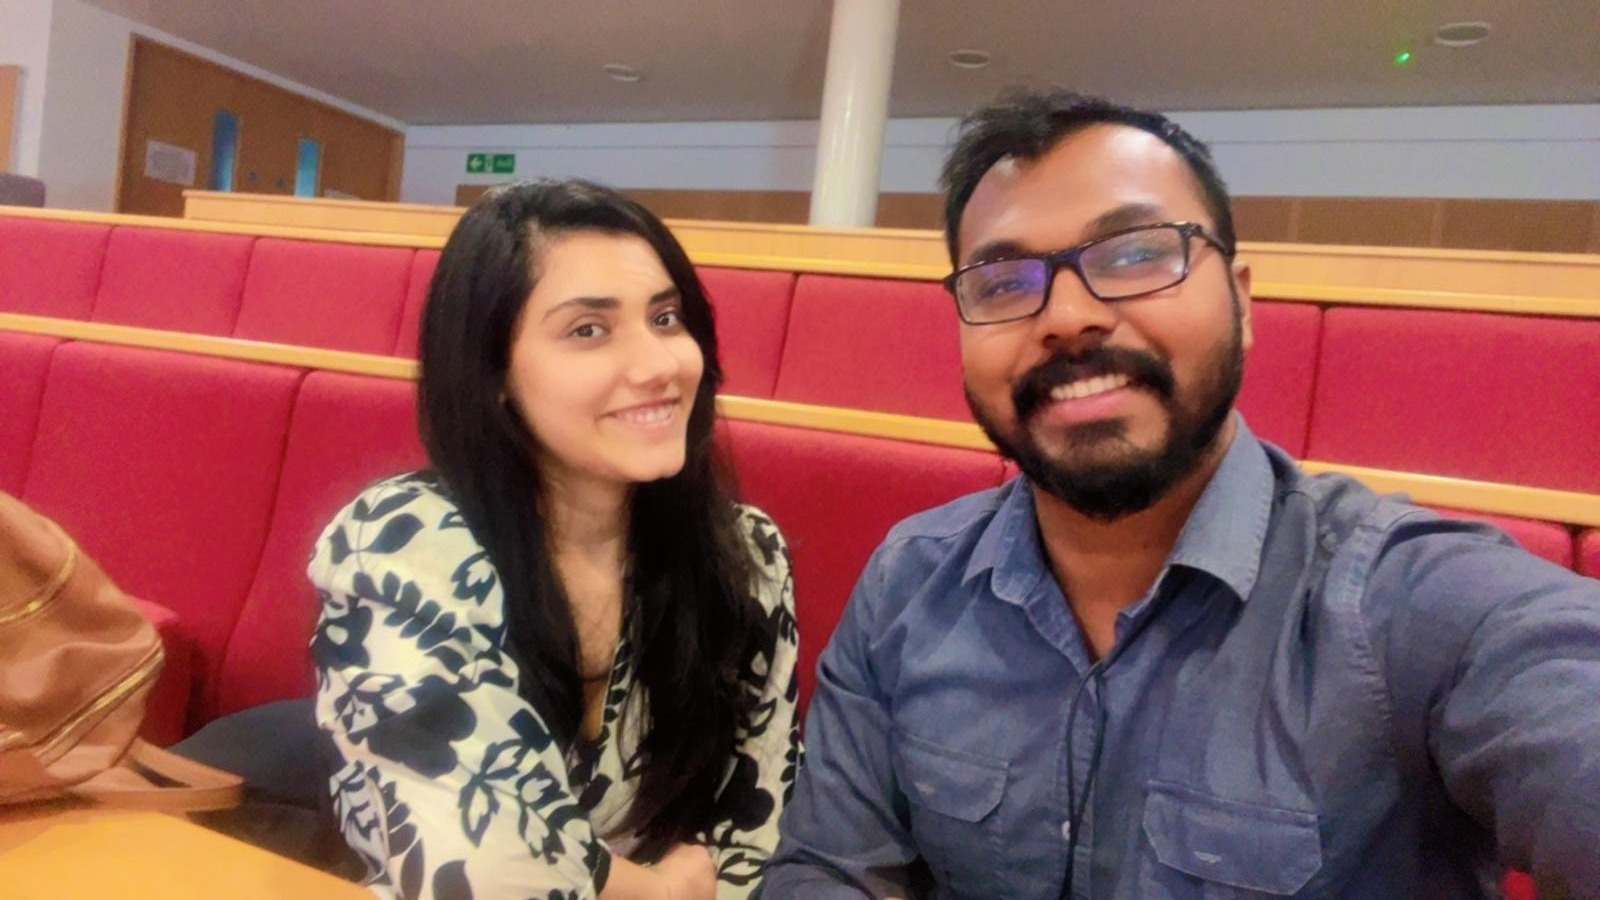
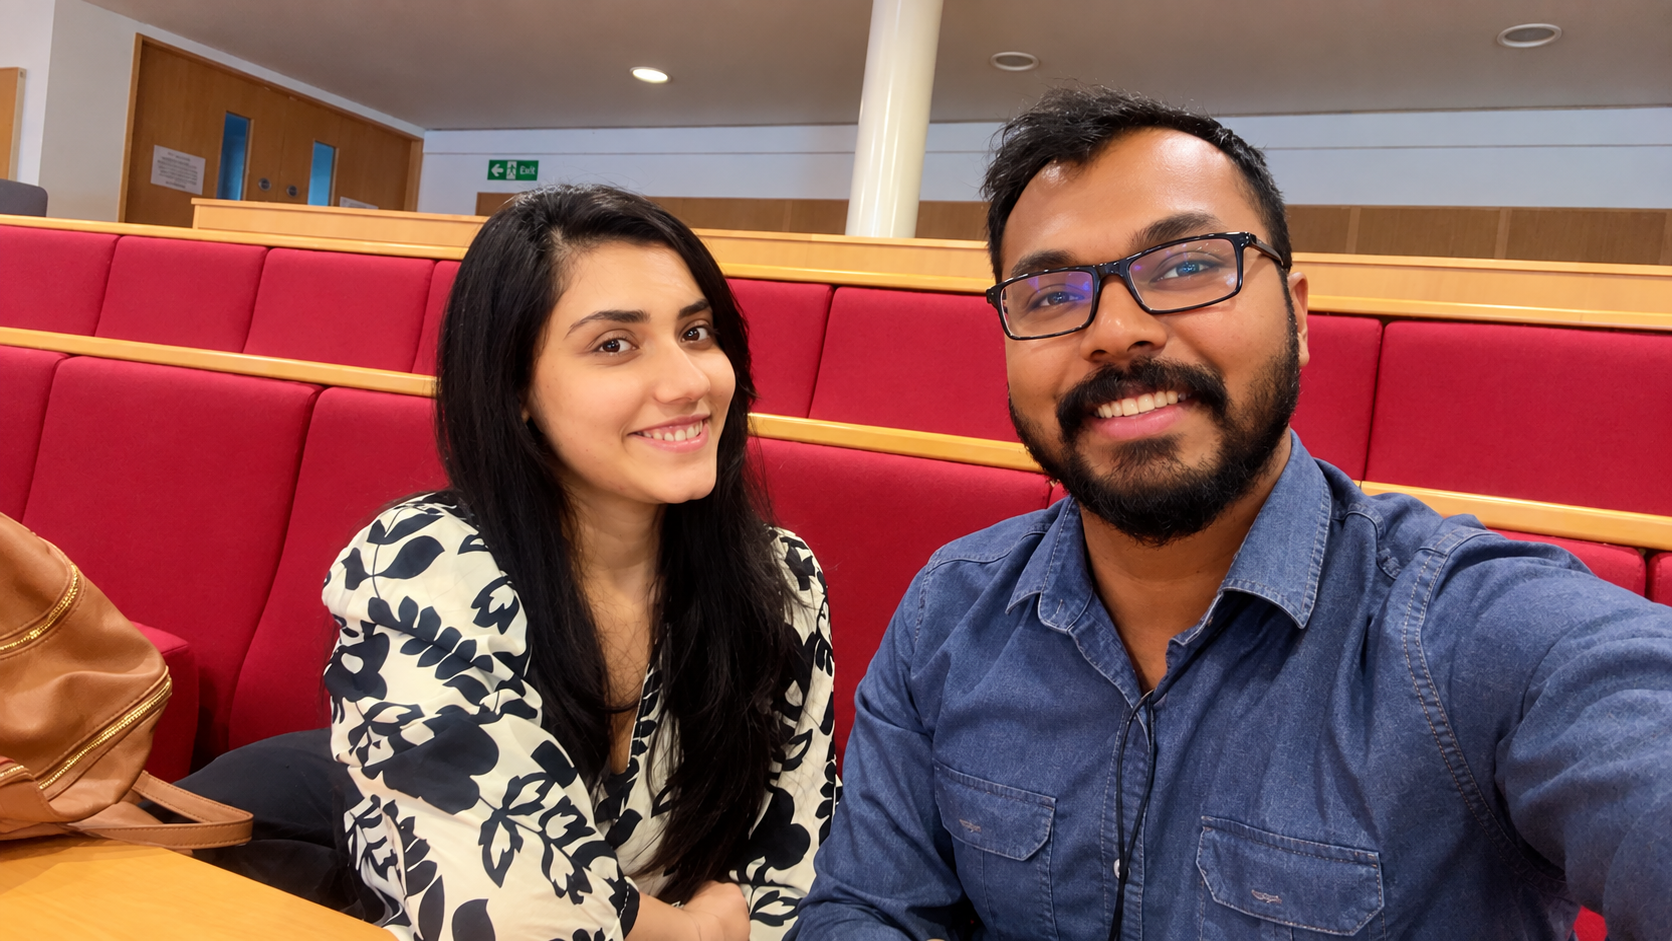
error solved for deplloyment

diff --git a/src/components/story/OurStory.tsx b/src/components/story/OurStory.tsx
@@ -4,7 +4,6 @@ import { wedding } from "@/config/wedding";
 import { WeddingPhoto } from "@/components/media/WeddingPhoto";
 import { FestivalHeading } from "@/components/ui/FestivalHeading";
 import { DepthStage } from "@/components/motion/DepthStage";
-import { TiltCard } from "@/components/motion/TiltCard";
 import { useExperience } from "@/components/providers/ExperienceProvider";
 
 export function OurStory() {
@@ -23,55 +22,51 @@ export function OurStory() {
       </section>
 
       <section className="section-pad pt-2 sm:pt-0">
-        <DepthStage>
-          <FestivalHeading kicker="Our journey" title="A Love in Moments" />
-          <div className="relative mx-auto mt-10 max-w-3xl sm:mt-12">
-            <span className="absolute left-1/2 top-0 hidden h-full w-px -translate-x-1/2 bg-[var(--color-coral)]/35 md:block" />
-            <ol className="space-y-12 sm:space-y-16">
-              {chapters.map((chapter, index) => {
-                const photoLeft = index % 2 === 1;
-                return (
-                  <li key={chapter.id} className="grid items-center gap-5 md:grid-cols-2 md:gap-12">
-                    <div className={photoLeft ? "text-center md:order-1 md:text-left" : "text-center md:order-2 md:text-right"}>
-                      <p className="font-serif text-[clamp(1.35rem,4.5vw,2.35rem)] italic leading-tight text-[var(--color-coral)]">
-                        {chapter.year}
-                      </p>
-                      <h3 className="mt-1 font-serif text-xl text-[var(--color-navy)] sm:mt-2 sm:text-3xl">
-                        {language === "bn" ? chapter.titleBn : chapter.title}
-                      </h3>
-                      <p
-                        className={`mx-auto mt-3 max-w-sm font-serif text-[0.98rem] leading-relaxed text-[var(--color-muted)] sm:text-base ${
-                          photoLeft ? "md:mx-0" : "md:ml-auto md:mr-0"
-                        }`}
-                      >
-                        {language === "bn" ? chapter.textBn : chapter.text}
-                      </p>
-                    </div>
-                    <div
-                      className={`flex justify-center ${
-                        photoLeft ? "md:order-2 md:justify-start" : "md:order-1 md:justify-end"
+        <FestivalHeading kicker="Our journey" title="A Love in Moments" />
+        <div className="relative mx-auto mt-10 max-w-3xl sm:mt-12">
+          <span className="absolute left-1/2 top-0 hidden h-full w-px -translate-x-1/2 bg-[var(--color-coral)]/35 md:block" />
+          <ol className="space-y-12 sm:space-y-16">
+            {chapters.map((chapter, index) => {
+              const photoLeft = index % 2 === 1;
+              return (
+                <li key={chapter.id} className="grid items-center gap-5 md:grid-cols-2 md:gap-12">
+                  <div className={photoLeft ? "text-center md:order-1 md:text-left" : "text-center md:order-2 md:text-right"}>
+                    <p className="font-serif text-[clamp(1.35rem,4.5vw,2.35rem)] italic leading-tight text-[var(--color-coral)]">
+                      {chapter.year}
+                    </p>
+                    <h3 className="mt-1 font-serif text-xl text-[var(--color-navy)] sm:mt-2 sm:text-3xl">
+                      {language === "bn" ? chapter.titleBn : chapter.title}
+                    </h3>
+                    <p
+                      className={`mx-auto mt-3 max-w-sm font-serif text-[0.98rem] leading-relaxed text-[var(--color-muted)] sm:text-base ${
+                        photoLeft ? "md:mx-0" : "md:ml-auto md:mr-0"
                       }`}
                     >
-                      <TiltCard max={8} pressFeedback>
-                        <div className="relative">
-                          <span className="absolute -left-3 top-1/2 hidden h-3 w-3 -translate-y-1/2 rounded-full bg-[var(--color-coral)] md:block" />
-                          <div className="h-40 w-40 overflow-hidden rounded-full sm:h-52 sm:w-52">
-                            <WeddingPhoto
-                              src={chapter.photo}
-                              alt={chapter.photoAlt}
-                              className="h-full w-full"
-                              sizes="(max-width: 767px) 40vw, 208px"
-                            />
-                          </div>
-                        </div>
-                      </TiltCard>
+                      {language === "bn" ? chapter.textBn : chapter.text}
+                    </p>
+                  </div>
+                  <div
+                    className={`flex justify-center ${
+                      photoLeft ? "md:order-2 md:justify-start" : "md:order-1 md:justify-end"
+                    }`}
+                  >
+                    <div className="relative shrink-0">
+                      <span className="absolute -left-3 top-1/2 hidden h-3 w-3 -translate-y-1/2 rounded-full bg-[var(--color-coral)] md:block" />
+                      <div className="aspect-square size-40 shrink-0 overflow-hidden rounded-full sm:size-52">
+                        <WeddingPhoto
+                          src={chapter.photo}
+                          alt={chapter.photoAlt}
+                          className="h-full w-full"
+                          sizes="(max-width: 767px) 40vw, 208px"
+                        />
+                      </div>
                     </div>
-                  </li>
-                );
-              })}
-            </ol>
-          </div>
-        </DepthStage>
+                  </div>
+                </li>
+              );
+            })}
+          </ol>
+        </div>
       </section>
     </>
   );

diff --git a/src/components/media/WeddingPhoto.tsx b/src/components/media/WeddingPhoto.tsx
@@ -29,7 +29,7 @@ export function WeddingPhoto({
         fill
         priority={priority}
         sizes={sizes}
-        className="object-cover"
+        className="object-cover object-center"
       />
       {label ? (
         <figcaption className="pointer-events-none absolute bottom-3 left-3 font-serif text-xs tracking-[0.22em] text-white/80">
